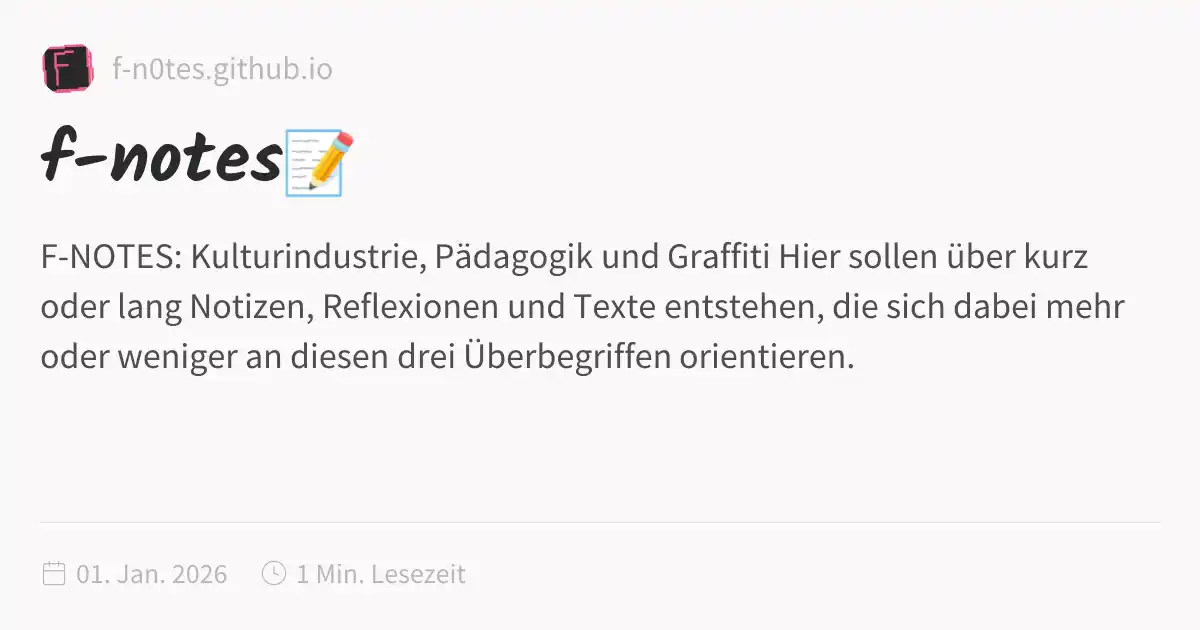
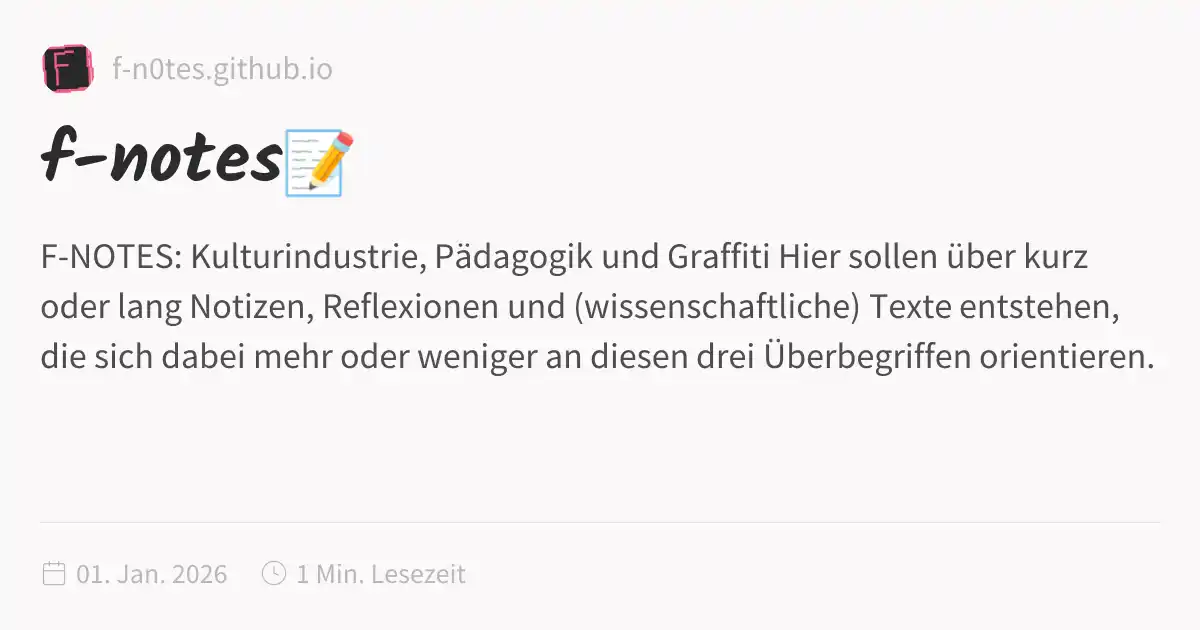
deploy: b214c6589f69b8bc84549fd786e1ebe01b2a814b

Changed region(s): [[0.0308, 0.5429, 0.9558, 0.6032], [0.4625, 0.4524, 0.9558, 0.5127]]

diff --git a/index.html b/index.html
@@ -1,5 +1,5 @@
 <!DOCTYPE html>
-<html lang="de" dir="ltr"><head><title>f-notes📝</title><meta charset="utf-8"/><link rel="preconnect" href="https://fonts.googleapis.com"/><link rel="preconnect" href="https://fonts.gstatic.com"/><link rel="stylesheet" href="https://fonts.googleapis.com/css2?family=Kalam:wght@400;700&amp;family=Source Sans Pro:ital,wght@0,400;0,600;1,400;1,600&amp;family=IBM Plex Mono:wght@400;600&amp;display=swap"/><link rel="preconnect" href="https://cdnjs.cloudflare.com" crossorigin="anonymous"/><meta name="viewport" content="width=device-width, initial-scale=1.0"/><meta name="og:site_name" content="f_notes"/><meta property="og:title" content="f-notes📝"/><meta property="og:type" content="website"/><meta name="twitter:card" content="summary_large_image"/><meta name="twitter:title" content="f-notes📝"/><meta name="twitter:description" content="F-NOTES: Kulturindustrie, Pädagogik und Graffiti Hier sollen über kurz oder lang Notizen, Reflexionen und Texte entstehen, die sich dabei mehr oder weniger an diesen drei Überbegriffen orientieren."/><meta property="og:description" content="F-NOTES: Kulturindustrie, Pädagogik und Graffiti Hier sollen über kurz oder lang Notizen, Reflexionen und Texte entstehen, die sich dabei mehr oder weniger an diesen drei Überbegriffen orientieren."/><meta property="og:image:alt" content="F-NOTES: Kulturindustrie, Pädagogik und Graffiti Hier sollen über kurz oder lang Notizen, Reflexionen und Texte entstehen, die sich dabei mehr oder weniger an diesen drei Überbegriffen orientieren."/><meta property="twitter:domain" content="f-n0tes.github.io"/><meta property="og:url" content="https://f-n0tes.github.io/index"/><meta property="twitter:url" content="https://f-n0tes.github.io/index"/><link rel="icon" href="./static/icon.png"/><meta name="description" content="F-NOTES: Kulturindustrie, Pädagogik und Graffiti Hier sollen über kurz oder lang Notizen, Reflexionen und Texte entstehen, die sich dabei mehr oder weniger an diesen drei Überbegriffen orientieren."/><meta name="generator" content="Quartz"/><link href="./index.css" rel="stylesheet" type="text/css" spa-preserve/><style>.expand-button {
+<html lang="de" dir="ltr"><head><title>f-notes📝</title><meta charset="utf-8"/><link rel="preconnect" href="https://fonts.googleapis.com"/><link rel="preconnect" href="https://fonts.gstatic.com"/><link rel="stylesheet" href="https://fonts.googleapis.com/css2?family=Kalam:wght@400;700&amp;family=Source Sans Pro:ital,wght@0,400;0,600;1,400;1,600&amp;family=IBM Plex Mono:wght@400;600&amp;display=swap"/><link rel="preconnect" href="https://cdnjs.cloudflare.com" crossorigin="anonymous"/><meta name="viewport" content="width=device-width, initial-scale=1.0"/><meta name="og:site_name" content="f_notes"/><meta property="og:title" content="f-notes📝"/><meta property="og:type" content="website"/><meta name="twitter:card" content="summary_large_image"/><meta name="twitter:title" content="f-notes📝"/><meta name="twitter:description" content="F-NOTES: Kulturindustrie, Pädagogik und Graffiti Hier sollen über kurz oder lang Notizen, Reflexionen und (wissenschaftliche) Texte entstehen, die sich dabei mehr oder weniger an diesen drei Überbegriffen orientieren."/><meta property="og:description" content="F-NOTES: Kulturindustrie, Pädagogik und Graffiti Hier sollen über kurz oder lang Notizen, Reflexionen und (wissenschaftliche) Texte entstehen, die sich dabei mehr oder weniger an diesen drei Überbegriffen orientieren."/><meta property="og:image:alt" content="F-NOTES: Kulturindustrie, Pädagogik und Graffiti Hier sollen über kurz oder lang Notizen, Reflexionen und (wissenschaftliche) Texte entstehen, die sich dabei mehr oder weniger an diesen drei Überbegriffen orientieren."/><meta property="twitter:domain" content="f-n0tes.github.io"/><meta property="og:url" content="https://f-n0tes.github.io/index"/><meta property="twitter:url" content="https://f-n0tes.github.io/index"/><link rel="icon" href="./static/icon.png"/><meta name="description" content="F-NOTES: Kulturindustrie, Pädagogik und Graffiti Hier sollen über kurz oder lang Notizen, Reflexionen und (wissenschaftliche) Texte entstehen, die sich dabei mehr oder weniger an diesen drei Überbegriffen orientieren."/><meta name="generator" content="Quartz"/><link href="./index.css" rel="stylesheet" type="text/css" spa-preserve/><style>.expand-button {
   position: absolute;
   display: flex;
   float: right;
@@ -116,9 +116,10 @@ pre:hover > .expand-button {
   padding: 0 12px;
   font-size: 14px;
 }
[2 lines of base64/hex data omitted]
 <h1 id="f-notes-kulturindustrie-pädagogik-und-graffiti">F-NOTES: Kulturindustrie, Pädagogik und Graffiti<a role="anchor" aria-hidden="true" tabindex="-1" data-no-popover="true" href="#f-notes-kulturindustrie-pädagogik-und-graffiti" class="internal"><svg width="18" height="18" viewBox="0 0 24 24" fill="none" stroke="currentColor" stroke-width="2" stroke-linecap="round" stroke-linejoin="round"><path d="M10 13a5 5 0 0 0 7.54.54l3-3a5 5 0 0 0-7.07-7.07l-1.72 1.71"></path><path d="M14 11a5 5 0 0 0-7.54-.54l-3 3a5 5 0 0 0 7.07 7.07l1.71-1.71"></path></svg></a></h1>
-<p>Hier sollen über kurz oder lang Notizen, Reflexionen und Texte entstehen, die sich dabei mehr oder weniger an diesen drei Überbegriffen orientieren.</p></article><hr/><div class="page-footer"></div></div><div class="right sidebar"><div class="graph"><h3>Graphansicht</h3><div class="graph-outer"><div class="graph-container" data-cfg="{&quot;drag&quot;:true,&quot;zoom&quot;:true,&quot;depth&quot;:1,&quot;scale&quot;:1.1,&quot;repelForce&quot;:0.5,&quot;centerForce&quot;:0.3,&quot;linkDistance&quot;:30,&quot;fontSize&quot;:0.6,&quot;opacityScale&quot;:1,&quot;showTags&quot;:true,&quot;removeTags&quot;:[],&quot;focusOnHover&quot;:false,&quot;enableRadial&quot;:false}"></div><button class="global-graph-icon" aria-label="Global Graph"><svg version="1.1" xmlns="http://www.w3.org/2000/svg" xmlns:xlink="http://www.w3.org/1999/xlink" x="0px" y="0px" viewBox="0 0 55 55" fill="currentColor" xml:space="preserve"><path d="M49,0c-3.309,0-6,2.691-6,6c0,1.035,0.263,2.009,0.726,2.86l-9.829,9.829C32.542,17.634,30.846,17,29,17
+<p>Hier sollen über kurz oder lang Notizen, Reflexionen und (wissenschaftliche) Texte entstehen, die sich dabei mehr oder weniger an diesen drei Überbegriffen orientieren.</p>
+<p>Der erste hier veröffentliche Text dient vor allem der Reflexion meines Kommentarspaltentourettes und der Einordnung meiner Kritik an der pro-palästinensischen Protestbewegung, auf die Jean-Philippe Kindler in dem Podcast <em>Hi Freaks</em> Bezug genommen hat: <a href="./Kulturindustrie/Podcasts/Glueckwunsch-du-willst-uns-fuer-dumm-verkaufen-(Hi-Freaks)" class="internal alias" data-slug="Kulturindustrie/Podcasts/Glueckwunsch-du-willst-uns-fuer-dumm-verkaufen-(Hi-Freaks)">Glückwunsch, du willst uns für dumm verkaufen (Hi Freaks)</a></p></article><hr/><div class="page-footer"></div></div><div class="right sidebar"><div class="graph"><h3>Graphansicht</h3><div class="graph-outer"><div class="graph-container" data-cfg="{&quot;drag&quot;:true,&quot;zoom&quot;:true,&quot;depth&quot;:1,&quot;scale&quot;:1.1,&quot;repelForce&quot;:0.5,&quot;centerForce&quot;:0.3,&quot;linkDistance&quot;:30,&quot;fontSize&quot;:0.6,&quot;opacityScale&quot;:1,&quot;showTags&quot;:true,&quot;removeTags&quot;:[],&quot;focusOnHover&quot;:false,&quot;enableRadial&quot;:false}"></div><button class="global-graph-icon" aria-label="Global Graph"><svg version="1.1" xmlns="http://www.w3.org/2000/svg" xmlns:xlink="http://www.w3.org/1999/xlink" x="0px" y="0px" viewBox="0 0 55 55" fill="currentColor" xml:space="preserve"><path d="M49,0c-3.309,0-6,2.691-6,6c0,1.035,0.263,2.009,0.726,2.86l-9.829,9.829C32.542,17.634,30.846,17,29,17
                 s-3.542,0.634-4.898,1.688l-7.669-7.669C16.785,10.424,17,9.74,17,9c0-2.206-1.794-4-4-4S9,6.794,9,9s1.794,4,4,4
                 c0.74,0,1.424-0.215,2.019-0.567l7.669,7.669C21.634,21.458,21,23.154,21,25s0.634,3.542,1.688,4.897L10.024,42.562
                 C8.958,41.595,7.549,41,6,41c-3.309,0-6,2.691-6,6s2.691,6,6,6s6-2.691,6-6c0-1.035-0.263-2.009-0.726-2.86l12.829-12.829

diff --git a/Kulturindustrie/Podcasts/Glueckwunsch-du-willst-uns-fuer-dumm-verkaufen-(Hi-Freaks).html b/Kulturindustrie/Podcasts/Glueckwunsch-du-willst-uns-fuer-dumm-verkaufen-(Hi-Freaks).html
@@ -222,6 +222,6 @@ pre:hover > .expand-button {
                 C46.042,11.405,47.451,12,49,12c3.309,0,6-2.691,6-6S52.309,0,49,0z M11,9c0-1.103,0.897-2,2-2s2,0.897,2,2s-0.897,2-2,2
                 S11,10.103,11,9z M6,51c-2.206,0-4-1.794-4-4s1.794-4,4-4s4,1.794,4,4S8.206,51,6,51z M33,49c0,2.206-1.794,4-4,4s-4-1.794-4-4
                 s1.794-4,4-4S33,46.794,33,49z M29,31c-3.309,0-6-2.691-6-6s2.691-6,6-6s6,2.691,6,6S32.309,31,29,31z M47,41c0,1.103-0.897,2-2,2
-                s-2-0.897-2-2s0.897-2,2-2S47,39.897,47,41z M49,10c-2.206,0-4-1.794-4-4s1.794-4,4-4s4,1.794,4,4S51.206,10,49,10z"></path></svg></button></div><div class="global-graph-outer"><div class="global-graph-container" data-cfg="{&quot;drag&quot;:true,&quot;zoom&quot;:true,&quot;depth&quot;:-1,&quot;scale&quot;:0.9,&quot;repelForce&quot;:0.5,&quot;centerForce&quot;:0.2,&quot;linkDistance&quot;:30,&quot;fontSize&quot;:0.6,&quot;opacityScale&quot;:1,&quot;showTags&quot;:true,&quot;removeTags&quot;:[],&quot;focusOnHover&quot;:true,&quot;enableRadial&quot;:true}"></div></div></div><div class="toc desktop-only"><button type="button" class="toc-header" aria-controls="toc-0" aria-expanded="true"><h3>Inhaltsverzeichnis</h3><svg xmlns="http://www.w3.org/2000/svg" width="24" height="24" viewBox="0 0 24 24" fill="none" stroke="currentColor" stroke-width="2" stroke-linecap="round" stroke-linejoin="round" class="fold"><polyline points="6 9 12 15 18 9"></polyline></svg></button><ul id="list-1" class="toc-content overflow"><li class="depth-0"><a href="#vorweg" data-for="vorweg">Vorweg</a></li><li class="depth-0"><a href="#rekonstruktion-und-einordnung" data-for="rekonstruktion-und-einordnung">Rekonstruktion und Einordnung</a></li><li class="depth-1"><a href="#wieso-kann-das-nicht-einfach-nebeneinanderstehen" data-for="wieso-kann-das-nicht-einfach-nebeneinanderstehen">Wieso kann das nicht einfach nebeneinanderstehen?</a></li><li class="depth-1"><a href="#antisemitismus-der-sogenannte-pro-palästinensische-aktivismus-und-ideologiekritik" data-for="antisemitismus-der-sogenannte-pro-palästinensische-aktivismus-und-ideologiekritik">Antisemitismus, der sogenannte pro-palästinensische Aktivismus und Ideologiekritik</a></li><li class="depth-0"><a href="#distinktionsbedürfnis-und-überakademisierte-sprache" data-for="distinktionsbedürfnis-und-überakademisierte-sprache">Distinktionsbedürfnis und „überakademisierte Sprache“</a></li><li class="depth-1"><a href="#die-überakademisierten-kommentare" data-for="die-überakademisierten-kommentare">Die “überakademisierten” Kommentare</a></li><li class="depth-0"><a href="#weiterführende-links-garantiert-unterakademisiert" data-for="weiterführende-links-garantiert-unterakademisiert">Weiterführende Links (garantiert unterakademisiert)</a></li><li class="overflow-end"></li></ul></div></div><footer class><p>Erstellt mit <a href="https://quartz.jzhao.xyz/">Quartz v4.5.2</a> © 2026</p><ul><li><a href="https://github.com/jackyzha0/quartz">GitHub</a></li><li><a href="https://discord.gg/cRFFHYye7t">Discord Community</a></li></ul></footer></div></div></body><script type="application/javascript">function n(){let t=this.parentElement;t.classList.toggle("is-collapsed");let e=t.getElementsByClassName("callout-content")[0];if(!e)return;let l=t.classList.contains("is-collapsed");e.style.gridTemplateRows=l?"0fr":"1fr"}function c(){let t=document.getElementsByClassName("callout is-collapsible");for(let e of t){let l=e.getElementsByClassName("callout-title")[0],s=e.getElementsByClassName("callout-content")[0];if(!l||!s)continue;l.addEventListener("click",n),window.addCleanup(()=>l.removeEventListener("click",n));let o=e.classList.contains("is-collapsed");s.style.gridTemplateRows=o?"0fr":"1fr"}}document.addEventListener("nav",c);
+                s-2-0.897-2-2s0.897-2,2-2S47,39.897,47,41z M49,10c-2.206,0-4-1.794-4-4s1.794-4,4-4s4,1.794,4,4S51.206,10,49,10z"></path></svg></button></div><div class="global-graph-outer"><div class="global-graph-container" data-cfg="{&quot;drag&quot;:true,&quot;zoom&quot;:true,&quot;depth&quot;:-1,&quot;scale&quot;:0.9,&quot;repelForce&quot;:0.5,&quot;centerForce&quot;:0.2,&quot;linkDistance&quot;:30,&quot;fontSize&quot;:0.6,&quot;opacityScale&quot;:1,&quot;showTags&quot;:true,&quot;removeTags&quot;:[],&quot;focusOnHover&quot;:true,&quot;enableRadial&quot;:true}"></div></div></div><div class="toc desktop-only"><button type="button" class="toc-header" aria-controls="toc-0" aria-expanded="true"><h3>Inhaltsverzeichnis</h3><svg xmlns="http://www.w3.org/2000/svg" width="24" height="24" viewBox="0 0 24 24" fill="none" stroke="currentColor" stroke-width="2" stroke-linecap="round" stroke-linejoin="round" class="fold"><polyline points="6 9 12 15 18 9"></polyline></svg></button><ul id="list-1" class="toc-content overflow"><li class="depth-0"><a href="#vorweg" data-for="vorweg">Vorweg</a></li><li class="depth-0"><a href="#rekonstruktion-und-einordnung" data-for="rekonstruktion-und-einordnung">Rekonstruktion und Einordnung</a></li><li class="depth-1"><a href="#wieso-kann-das-nicht-einfach-nebeneinanderstehen" data-for="wieso-kann-das-nicht-einfach-nebeneinanderstehen">Wieso kann das nicht einfach nebeneinanderstehen?</a></li><li class="depth-1"><a href="#antisemitismus-der-sogenannte-pro-palästinensische-aktivismus-und-ideologiekritik" data-for="antisemitismus-der-sogenannte-pro-palästinensische-aktivismus-und-ideologiekritik">Antisemitismus, der sogenannte pro-palästinensische Aktivismus und Ideologiekritik</a></li><li class="depth-0"><a href="#distinktionsbedürfnis-und-überakademisierte-sprache" data-for="distinktionsbedürfnis-und-überakademisierte-sprache">Distinktionsbedürfnis und „überakademisierte Sprache“</a></li><li class="depth-1"><a href="#die-überakademisierten-kommentare" data-for="die-überakademisierten-kommentare">Die “überakademisierten” Kommentare</a></li><li class="depth-0"><a href="#weiterführende-links-garantiert-unterakademisiert" data-for="weiterführende-links-garantiert-unterakademisiert">Weiterführende Links (garantiert unterakademisiert)</a></li><li class="overflow-end"></li></ul></div><div class="backlinks"><h3>Backlinks</h3><ul id="list-2" class="overflow"><li><a href="../../" class="internal">f-notes</a></li><li class="overflow-end"></li></ul></div></div><footer class><p>Erstellt mit <a href="https://quartz.jzhao.xyz/">Quartz v4.5.2</a> © 2026</p><ul><li><a href="https://github.com/jackyzha0/quartz">GitHub</a></li><li><a href="https://discord.gg/cRFFHYye7t">Discord Community</a></li></ul></footer></div></div></body><script type="application/javascript">function n(){let t=this.parentElement;t.classList.toggle("is-collapsed");let e=t.getElementsByClassName("callout-content")[0];if(!e)return;let l=t.classList.contains("is-collapsed");e.style.gridTemplateRows=l?"0fr":"1fr"}function c(){let t=document.getElementsByClassName("callout is-collapsible");for(let e of t){let l=e.getElementsByClassName("callout-title")[0],s=e.getElementsByClassName("callout-content")[0];if(!l||!s)continue;l.addEventListener("click",n),window.addCleanup(()=>l.removeEventListener("click",n));let o=e.classList.contains("is-collapsed");s.style.gridTemplateRows=o?"0fr":"1fr"}}document.addEventListener("nav",c);
 </script><script type="module">function f(i,e){if(!i)return;function r(o){o.target===this&&(o.preventDefault(),o.stopPropagation(),e())}function t(o){o.key.startsWith("Esc")&&(o.preventDefault(),e())}i?.addEventListener("click",r),window.addCleanup(()=>i?.removeEventListener("click",r)),document.addEventListener("keydown",t),window.addCleanup(()=>document.removeEventListener("keydown",t))}function y(i){for(;i.firstChild;)i.removeChild(i.firstChild)}var h=class{constructor(e,r){this.container=e;this.content=r;this.setupEventListeners(),this.setupNavigationControls(),this.resetTransform()}isDragging=!1;startPan={x:0,y:0};currentPan={x:0,y:0};scale=1;MIN_SCALE=.5;MAX_SCALE=3;cleanups=[];setupEventListeners(){let e=this.onMouseDown.bind(this),r=this.onMouseMove.bind(this),t=this.onMouseUp.bind(this),o=this.resetTransform.bind(this);this.container.addEventListener("mousedown",e),document.addEventListener("mousemove",r),document.addEventListener("mouseup",t),window.addEventListener("resize",o),this.cleanups.push(()=>this.container.removeEventListener("mousedown",e),()=>document.removeEventListener("mousemove",r),()=>document.removeEventListener("mouseup",t),()=>window.removeEventListener("resize",o))}cleanup(){for(let e of this.cleanups)e()}setupNavigationControls(){let e=document.createElement("div");e.className="mermaid-controls";let r=this.createButton("+",()=>this.zoom(.1)),t=this.createButton("-",()=>this.zoom(-.1)),o=this.createButton("Reset",()=>this.resetTransform());e.appendChild(t),e.appendChild(o),e.appendChild(r),this.container.appendChild(e)}createButton(e,r){let t=document.createElement("button");return t.textContent=e,t.className="mermaid-control-button",t.addEventListener("click",r),window.addCleanup(()=>t.removeEventListener("click",r)),t}onMouseDown(e){e.button===0&&(this.isDragging=!0,this.startPan={x:e.clientX-this.currentPan.x,y:e.clientY-this.currentPan.y},this.container.style.cursor="grabbing")}onMouseMove(e){this.isDragging&&(e.preventDefault(),this.currentPan={x:e.clientX-this.startPan.x,y:e.clientY-this.startPan.y},this.updateTransform())}onMouseUp(){this.isDragging=!1,this.container.style.cursor="grab"}zoom(e){let r=Math.min(Math.max(this.scale+e,this.MIN_SCALE),this.MAX_SCALE),t=this.content.getBoundingClientRect(),o=t.width/2,n=t.height/2,c=r-this.scale;this.currentPan.x-=o*c,this.currentPan.y-=n*c,this.scale=r,this.updateTransform()}updateTransform(){this.content.style.transform=`translate(${this.currentPan.x}px, ${this.currentPan.y}px) scale(${this.scale})`}resetTransform(){this.scale=1;let e=this.content.querySelector("svg");this.currentPan={x:e.getBoundingClientRect().width/2,y:e.getBoundingClientRect().height/2},this.updateTransform()}},C=["--secondary","--tertiary","--gray","--light","--lightgray","--highlight","--dark","--darkgray","--codeFont"],E;document.addEventListener("nav",async()=>{let e=document.querySelector(".center").querySelectorAll("code.mermaid");if(e.length===0)return;E||=await import("https://cdnjs.cloudflare.com/ajax/libs/mermaid/11.4.0/mermaid.esm.min.mjs");let r=E.default,t=new WeakMap;for(let n of e)t.set(n,n.innerText);async function o(){for(let s of e){s.removeAttribute("data-processed");let a=t.get(s);a&&(s.innerHTML=a)}let n=C.reduce((s,a)=>(s[a]=window.getComputedStyle(document.documentElement).getPropertyValue(a),s),{}),c=document.documentElement.getAttribute("saved-theme")==="dark";r.initialize({startOnLoad:!1,securityLevel:"loose",theme:c?"dark":"base",themeVariables:{fontFamily:n["--codeFont"],primaryColor:n["--light"],primaryTextColor:n["--darkgray"],primaryBorderColor:n["--tertiary"],lineColor:n["--darkgray"],secondaryColor:n["--secondary"],tertiaryColor:n["--tertiary"],clusterBkg:n["--light"],edgeLabelBackground:n["--highlight"]}}),await r.run({nodes:e})}await o(),document.addEventListener("themechange",o),window.addCleanup(()=>document.removeEventListener("themechange",o));for(let n=0;n<e.length;n++){let v=function(){let g=l.querySelector("#mermaid-space"),m=l.querySelector(".mermaid-content");if(!m)return;y(m);let w=c.querySelector("svg").cloneNode(!0);m.appendChild(w),l.classList.add("active"),g.style.cursor="grab",u=new h(g,m)},M=function(){l.classList.remove("active"),u?.cleanup(),u=null},c=e[n],s=c.parentElement,a=s.querySelector(".clipboard-button"),d=s.querySelector(".expand-button"),p=window.getComputedStyle(a),L=a.offsetWidth+parseFloat(p.marginLeft||"0")+parseFloat(p.marginRight||"0");d.style.right=`calc(${L}px + 0.3rem)`,s.prepend(d);let l=s.querySelector("#mermaid-container");if(!l)return;let u=null;d.addEventListener("click",v),f(l,M),window.addCleanup(()=>{u?.cleanup(),d.removeEventListener("click",v)})}});
 </script><script src="https://cdn.jsdelivr.net/npm/katex@0.16.11/dist/contrib/copy-tex.min.js" type="application/javascript"></script><script src="../../postscript.js" type="module"></script></html>
